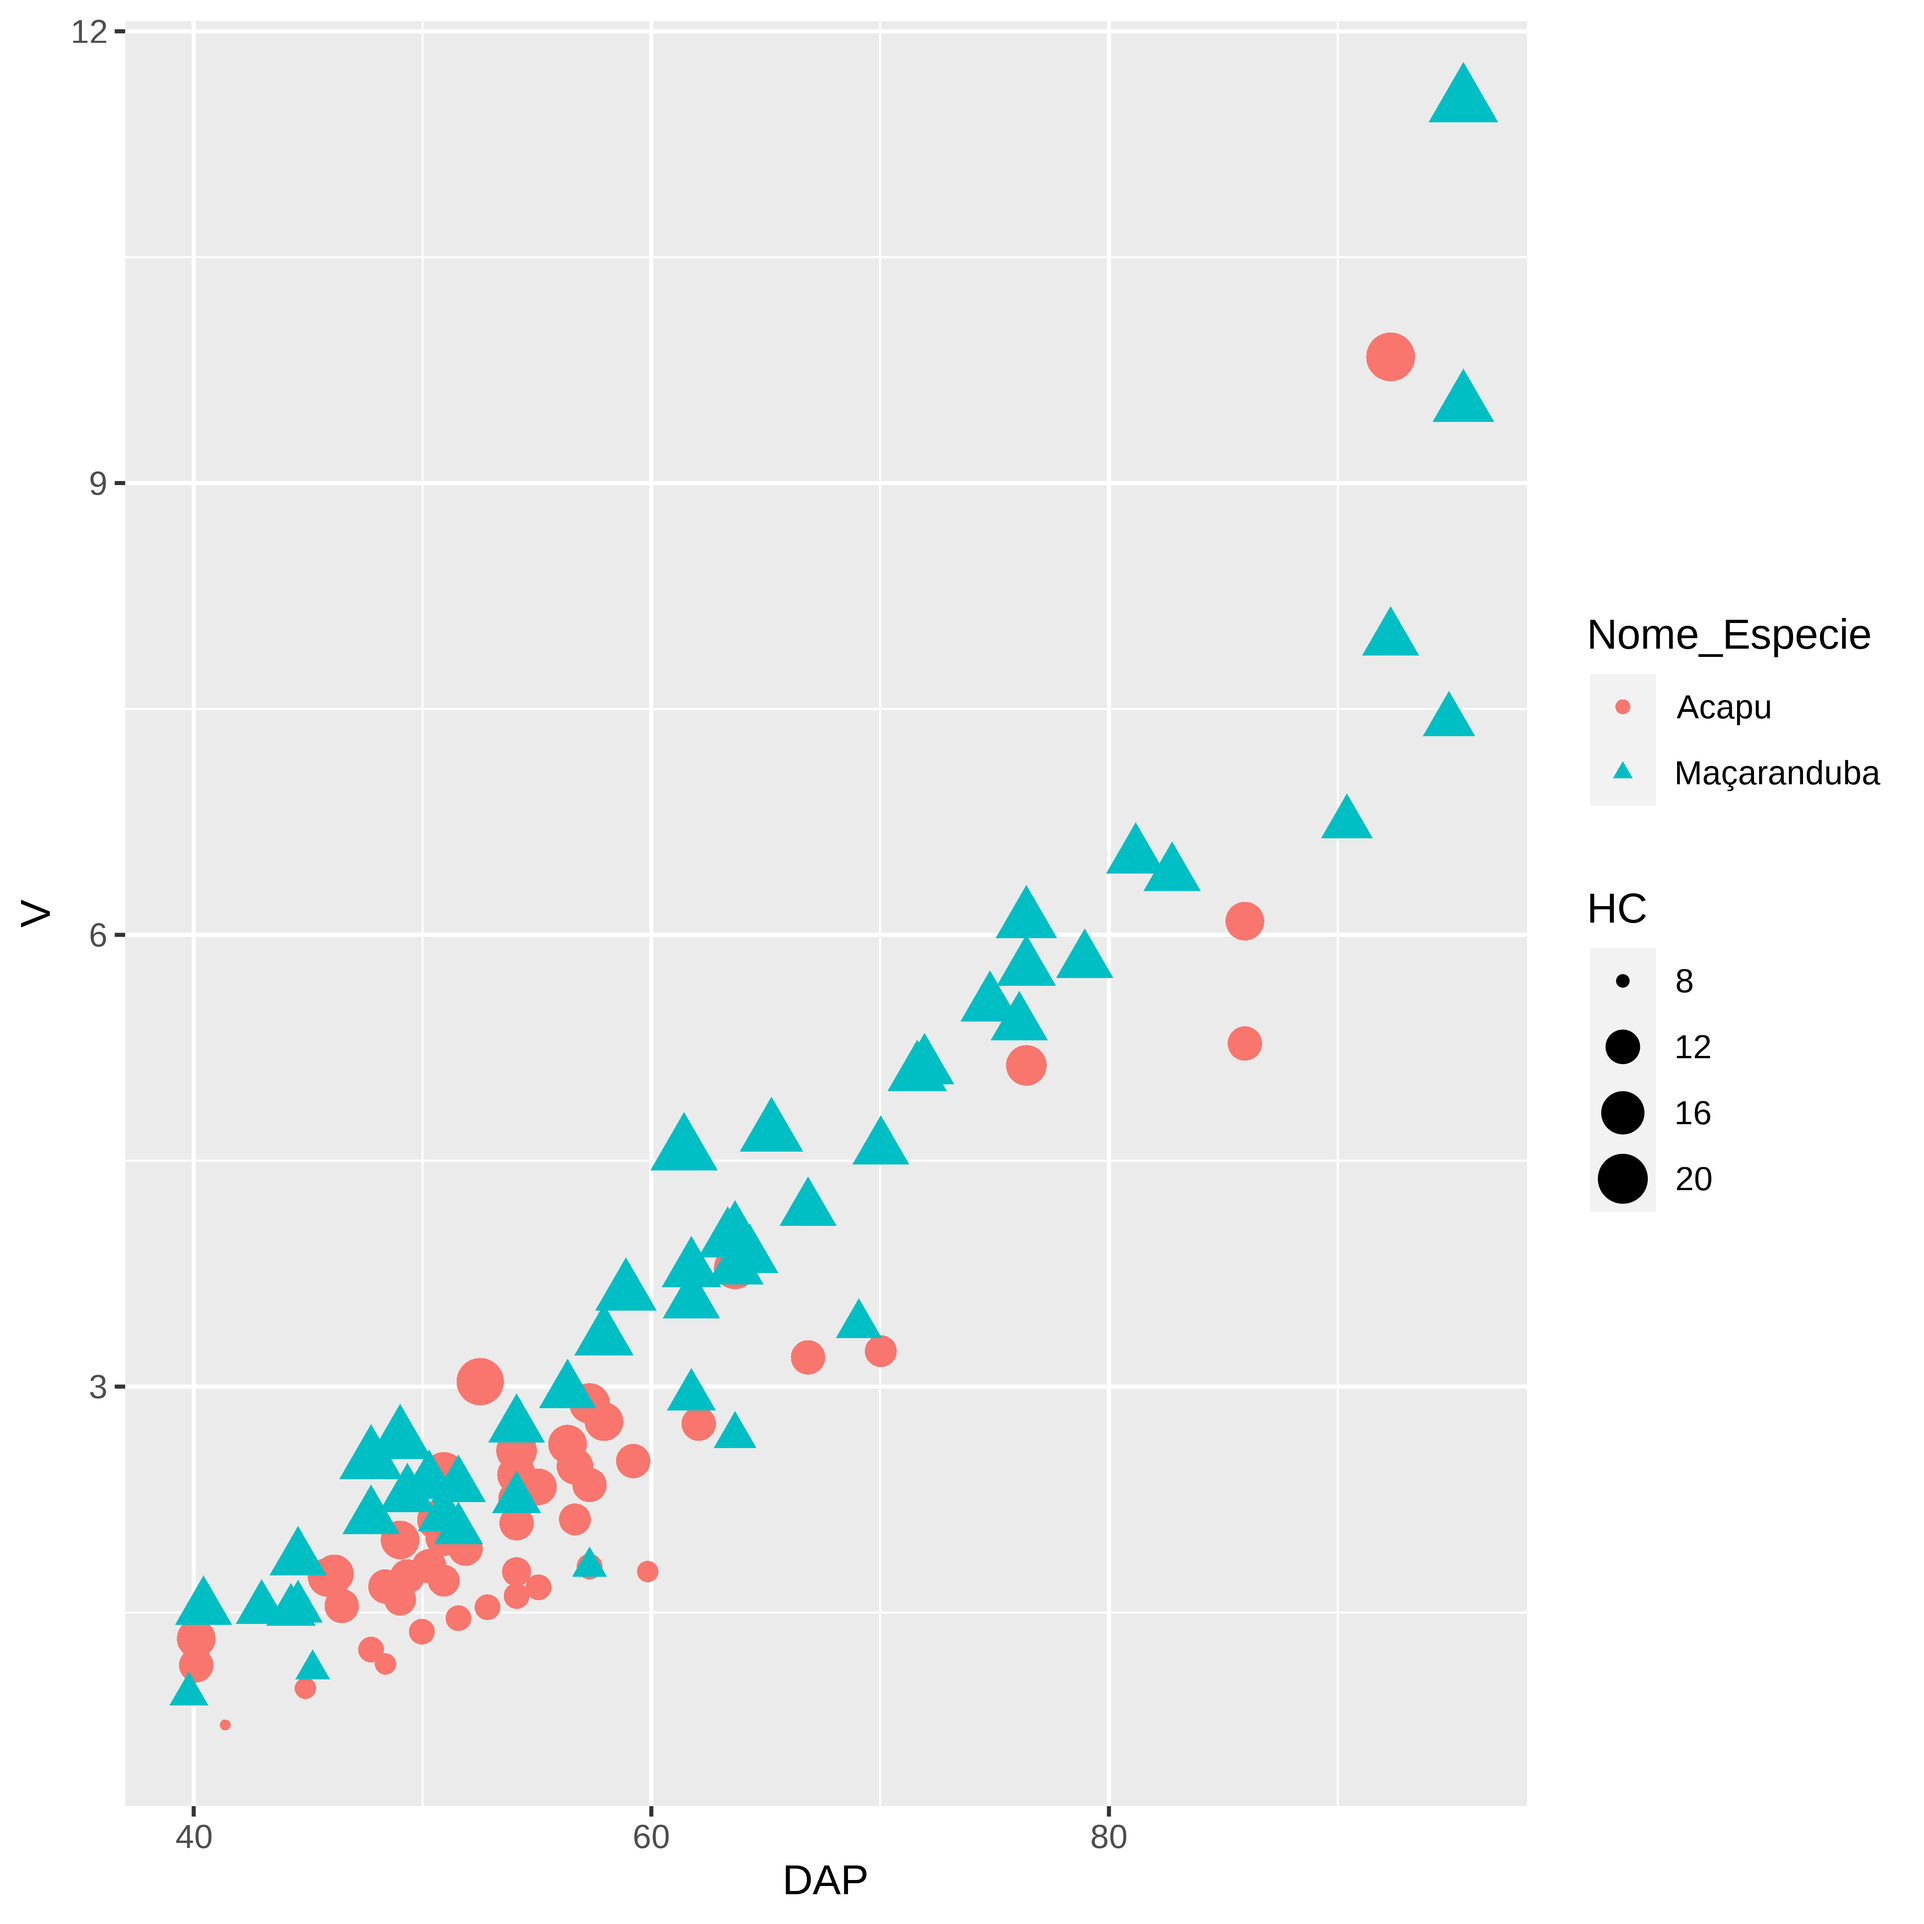
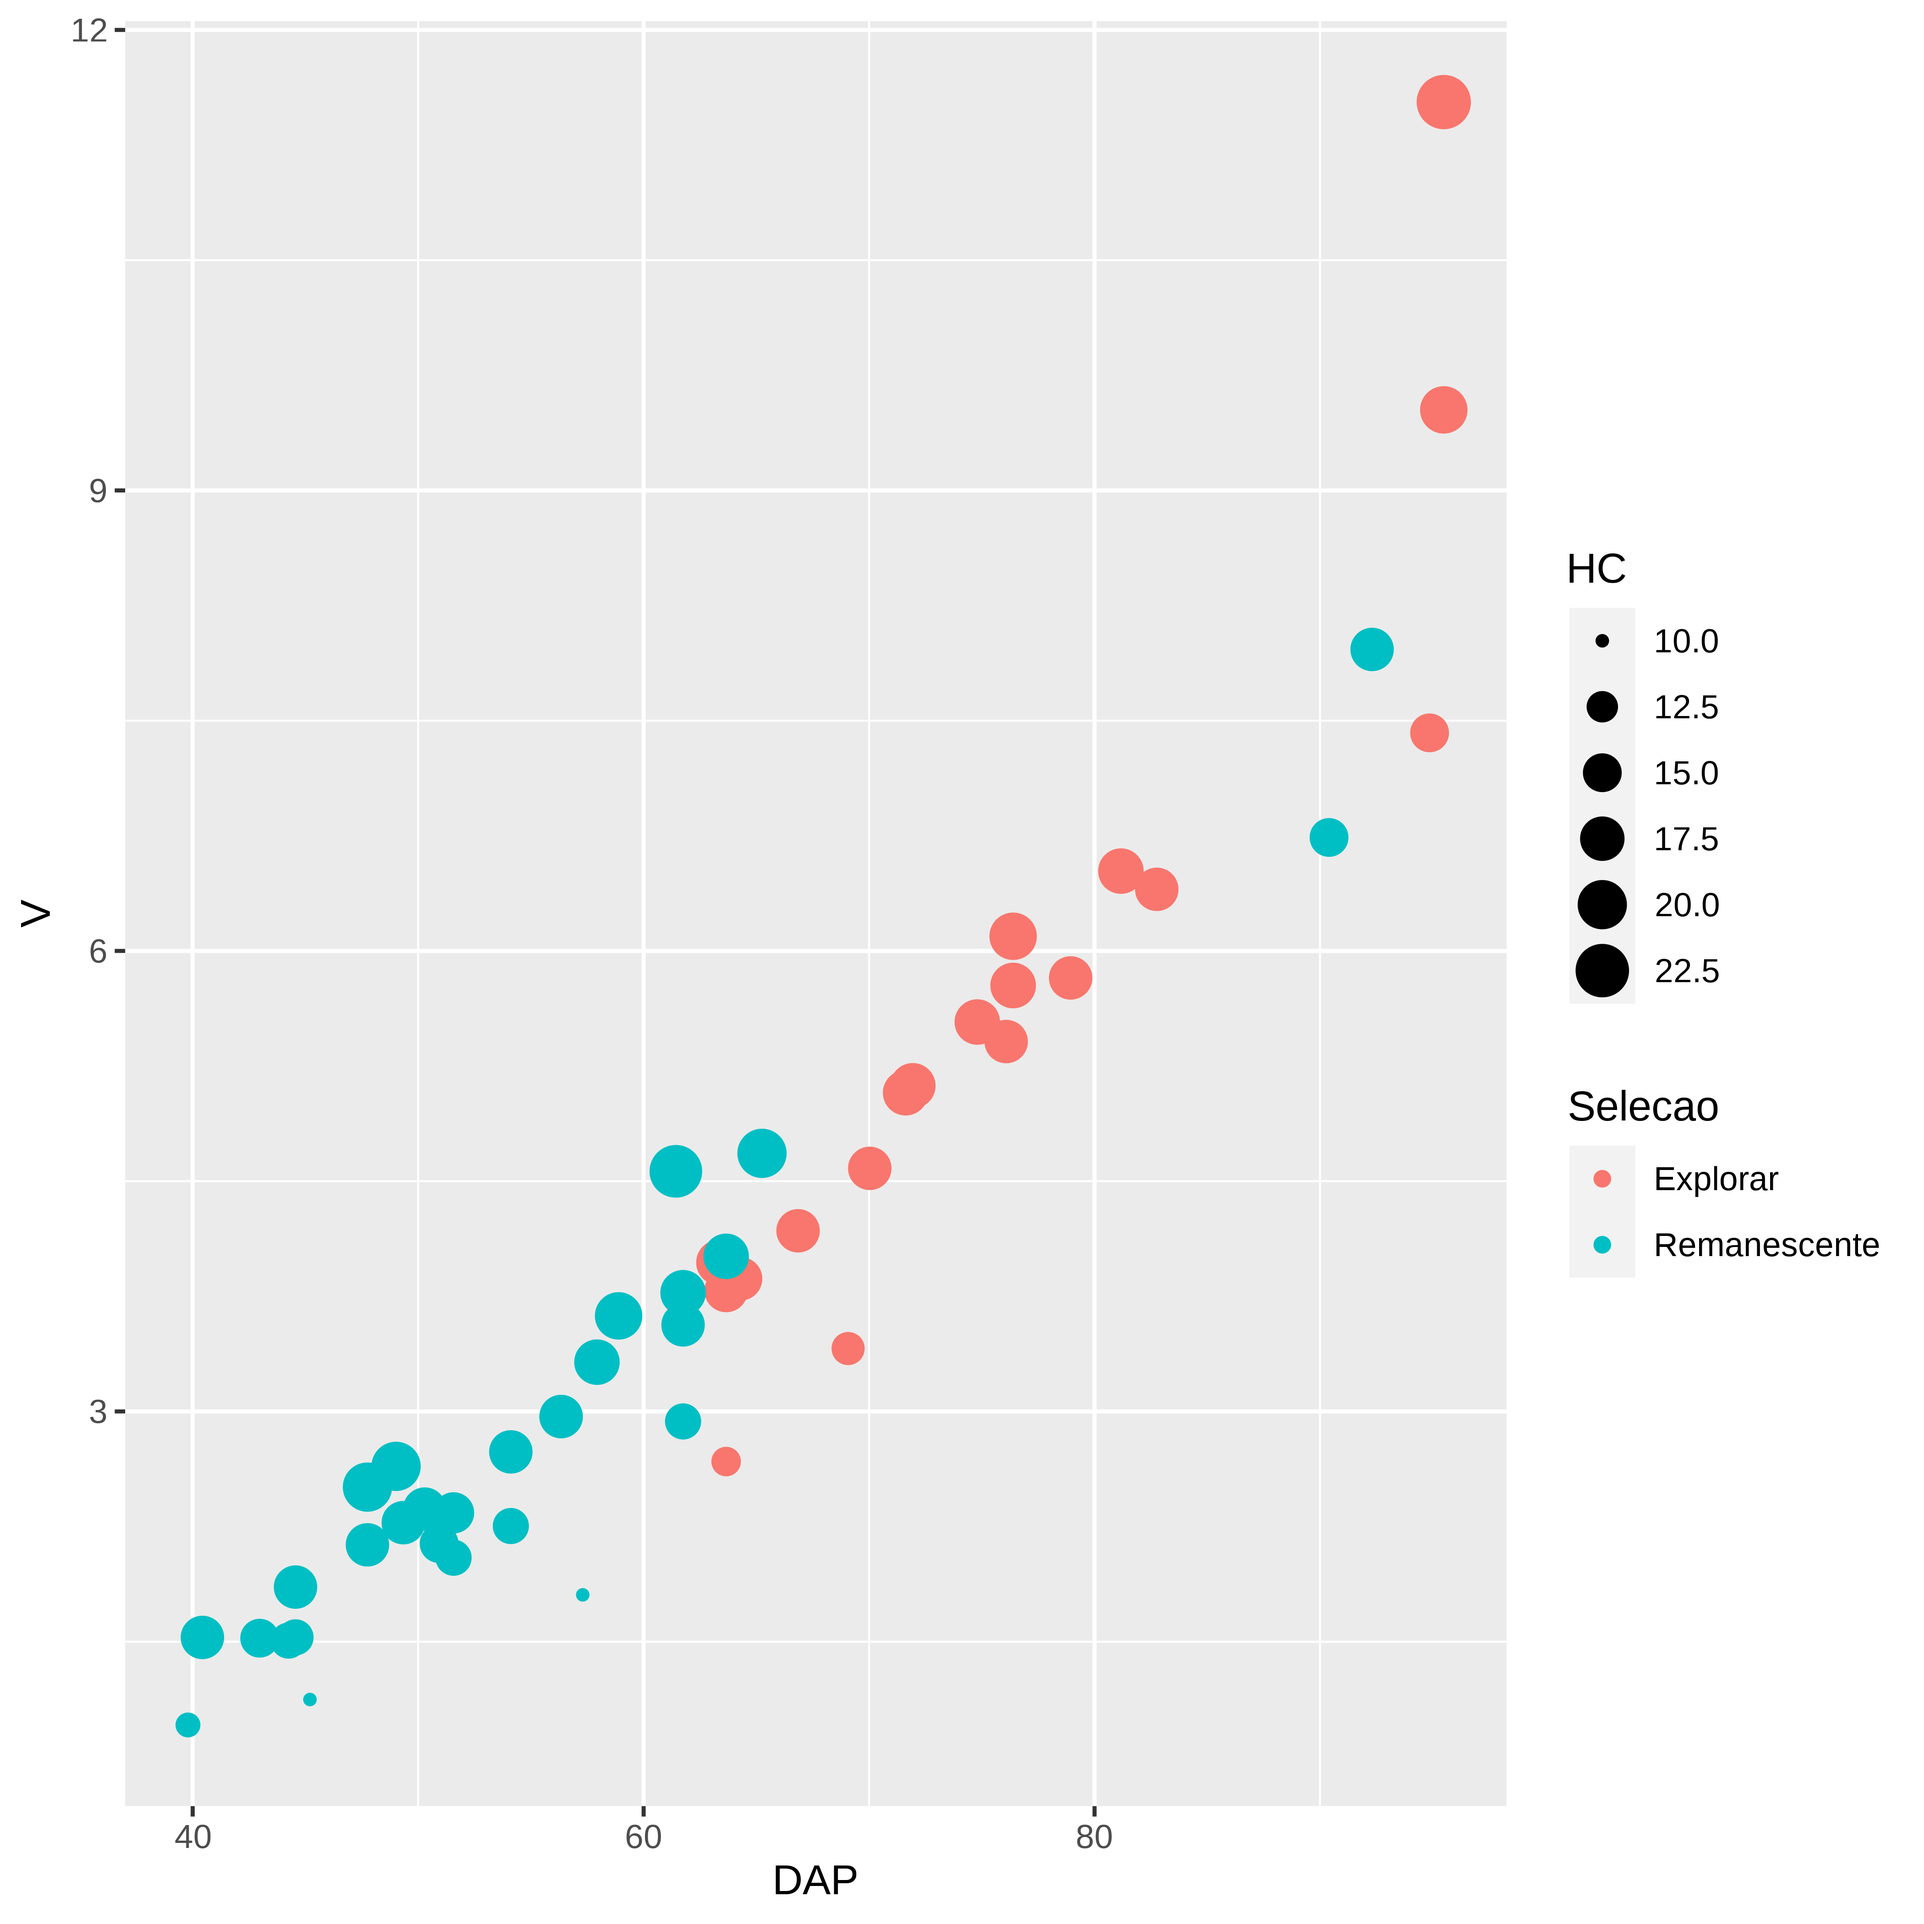
Update part2

diff --git a/Slides/03-Visualizacao-Dados.html b/Slides/03-Visualizacao-Dados.html
@@ -7,7 +7,7 @@
     <script src="03-Visualizacao-Dados_files/header-attrs-2.7/header-attrs.js"></script>
     <link href="03-Visualizacao-Dados_files/remark-css-0.0.1/default.css" rel="stylesheet" />
     <link href="03-Visualizacao-Dados_files/xaringanExtra-extra-styles-0.2.6/xaringanExtra-extra-styles.css" rel="stylesheet" />
-    <script type="application/json" id="xaringanExtra-editable-docid">{"id":"x1d16447ef1f485e9492cda043feafd5","expires":1}</script>
+    <script type="application/json" id="xaringanExtra-editable-docid">{"id":"b5d1cc7b20af486a84032c1f60a26db3","expires":1}</script>
     <script src="03-Visualizacao-Dados_files/himalaya-1.1.0/himalaya.js"></script>
     <script src="03-Visualizacao-Dados_files/js-cookie-3.0.0/js.cookie.js"></script>
     <link href="03-Visualizacao-Dados_files/editable-0.2.6/editable.css" rel="stylesheet" />
@@ -576,11 +576,9 @@ ggplot(data = data_sample,
 
 
 ```r
-ggplot(data = data_sample %&gt;% 
-           filter(Nome_Especie %in% c('Acapu', 'Maçaranduba')), 
+ggplot(data = data_sample %&gt;% filter(Nome_Especie == 'Maçaranduba'), 
        mapping = aes(x = DAP, y = V)) +           # 1ª camada
-  geom_point(mapping = aes(shape = Nome_Especie, 
-                           colour = Nome_Especie,
+  geom_point(mapping = aes(colour = Selecao,
                            size = HC))            # 2ª camada
 ```
 &lt;br&gt;
@@ -613,6 +611,40 @@ ggplot(data = data_sample %&gt;%
 ggplot(data = data_sample %&gt;% 
            filter(Nome_Especie %in% c('Acapu', 'Maçaranduba')), 
        mapping = aes(x = DAP, y = V)) +           # 1ª camada
+  geom_point(mapping = aes(colour = Nome_Especie,
+                           shape = Selecao),
+             size = 4)                            # 2ª camada
+```
+&lt;br&gt;
+
+👉 **2ª camada**:
+
+- Isso é feito com argumento .magenta[**size**], porém fora de .green[aes()].
+- Especifique um valor inteiro para o argumento.
+]
+]
+
+.pull-right-4[
+.font80[
+&lt;img src="03-Visualizacao-Dados_files/figure-html/unnamed-chunk-15-1.png" width="80%" style="display: block; margin: auto;" /&gt;
+]
+]
+
+---
+
+## Pacote ggplot2 (tidyverse)
+&lt;br&gt;
+### Gráfico de pontos (dispersão) - Estética de pontos
+
+.pull-left-4[
+.font70[
+- ...
+
+
+```r
+ggplot(data = data_sample %&gt;% 
+           filter(Nome_Especie == 'Acapu'), 
+       mapping = aes(x = DAP, y = V)) +           # 1ª camada
   geom_point(mapping = aes(shape = Nome_Especie, 
                            colour = Nome_Especie),
              size = 4)                            # 2ª camada
@@ -628,7 +660,7 @@ ggplot(data = data_sample %&gt;%
 
 .pull-right-4[
 .font80[
-&lt;img src="03-Visualizacao-Dados_files/figure-html/unnamed-chunk-15-1.png" width="80%" style="display: block; margin: auto;" /&gt;
+&lt;img src="03-Visualizacao-Dados_files/figure-html/unnamed-chunk-16-1.png" width="80%" style="display: block; margin: auto;" /&gt;
 ]
 ]
 
